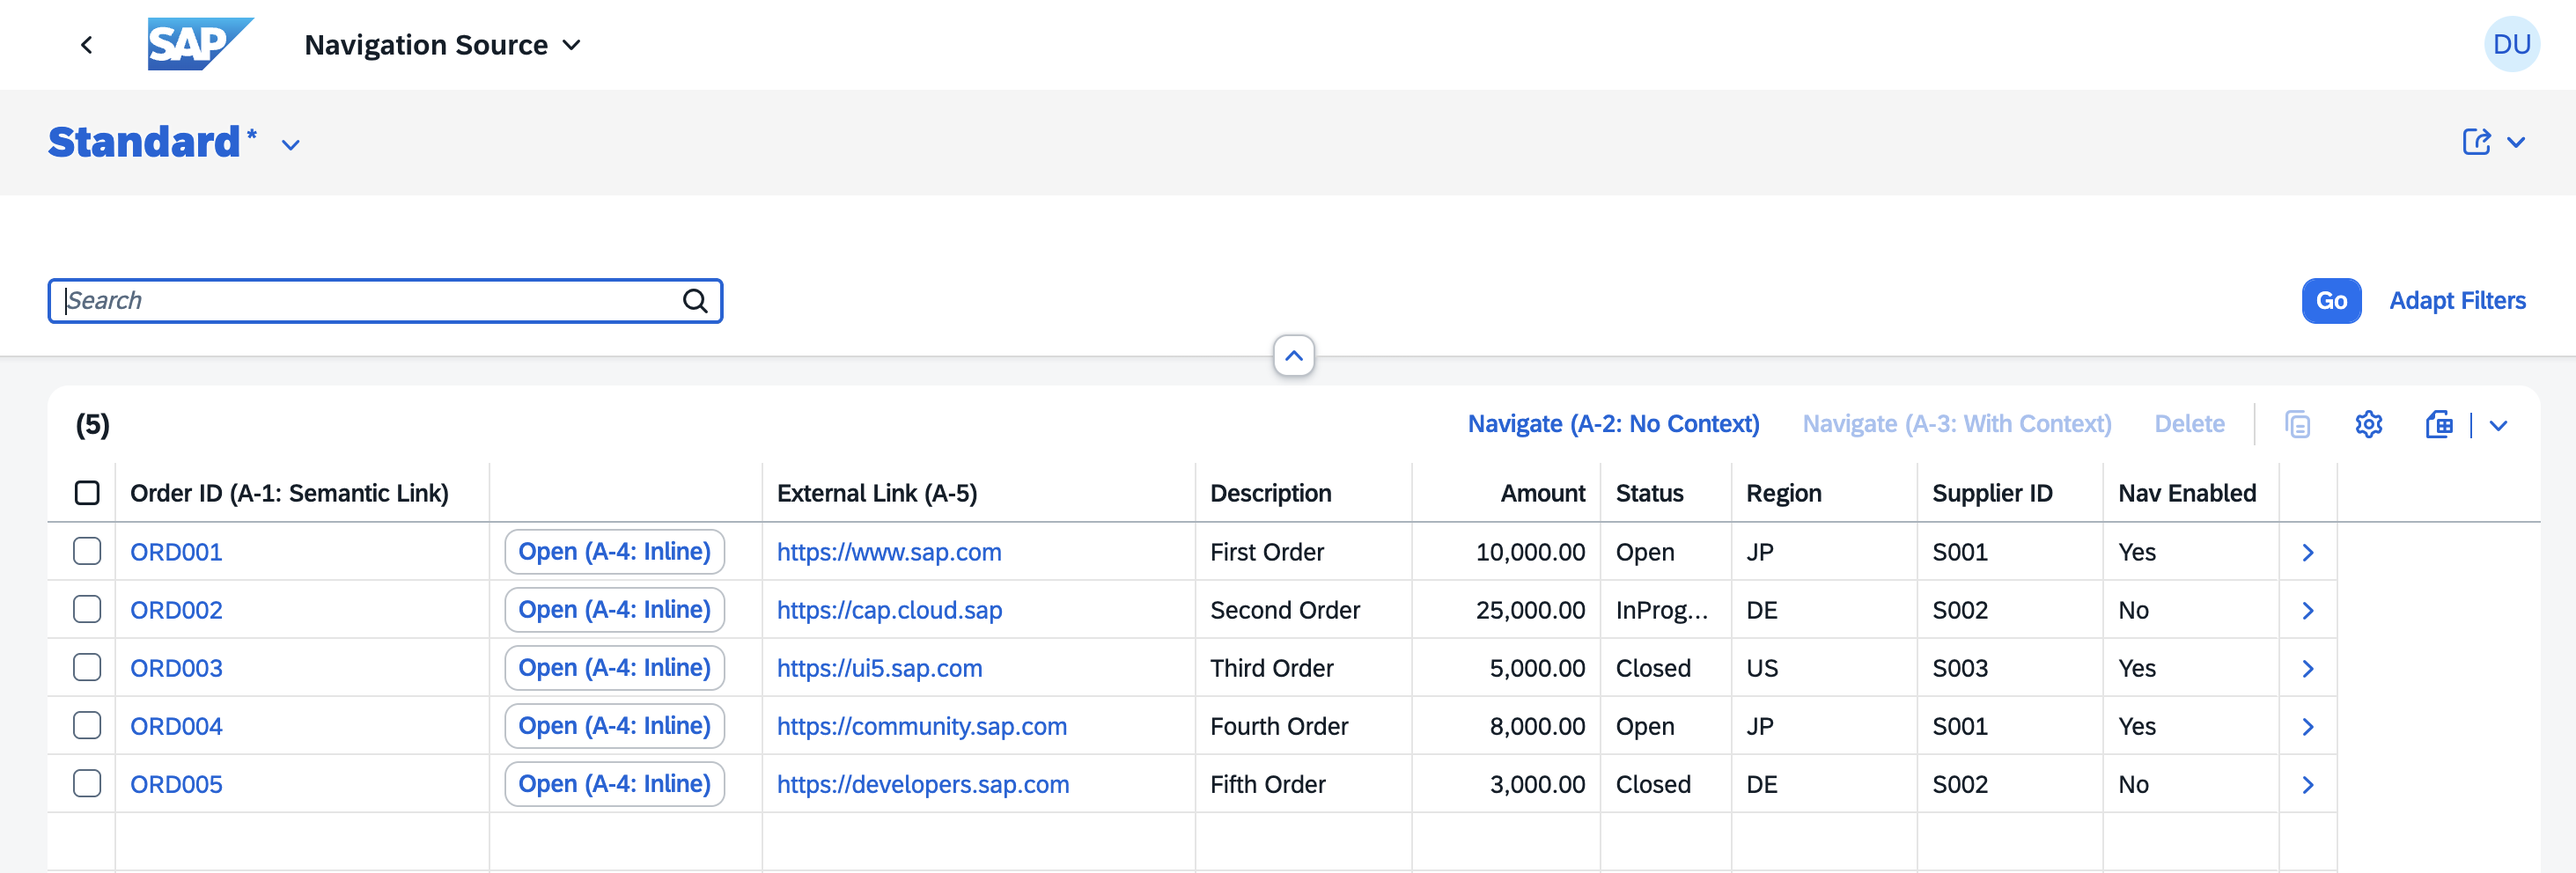
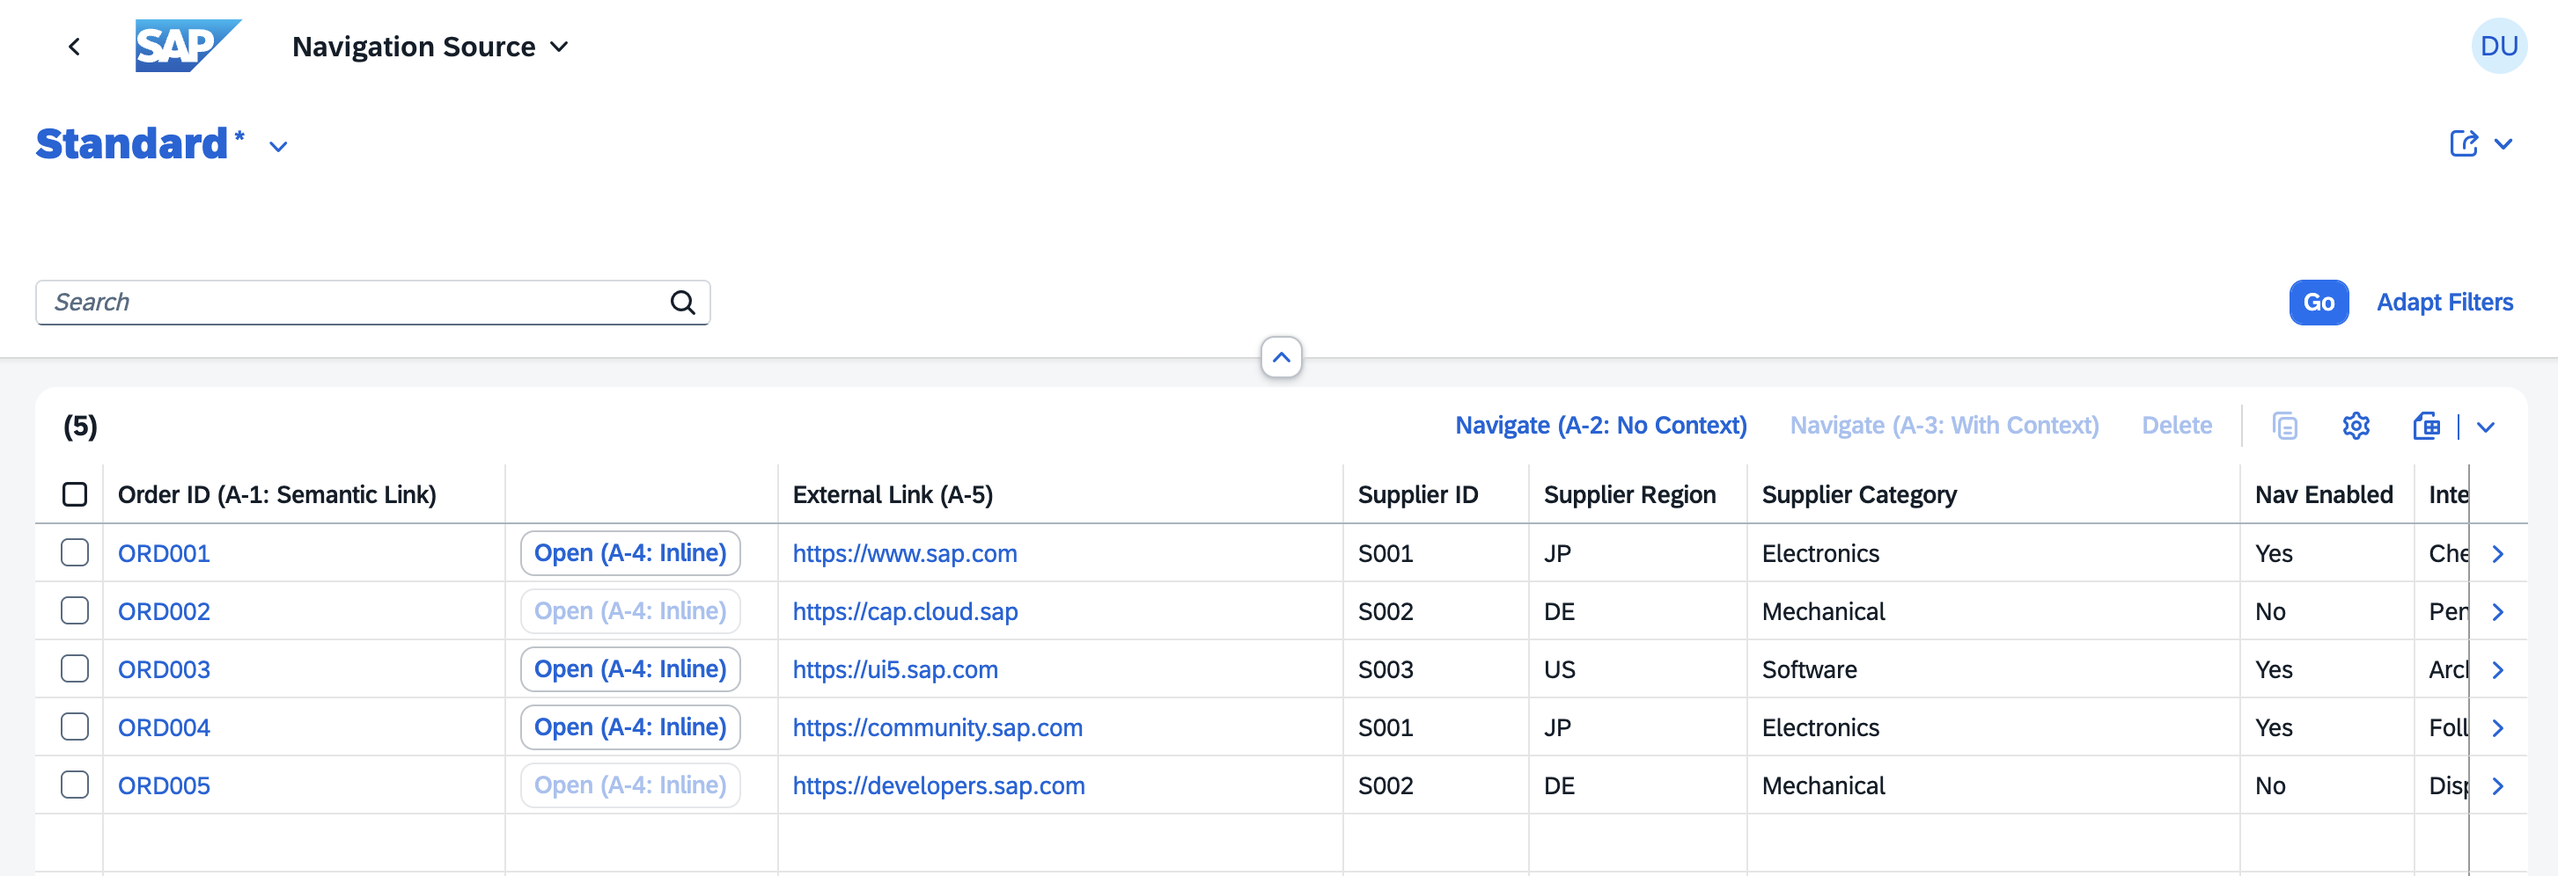
Document dynamic SemanticObject binding: A-1 supports path, IBN buttons do not

diff --git a/readme.md b/readme.md
@@ -35,7 +35,9 @@ All patterns are visible in the **nav-source List Report**.
 
 ### A-1: Semantic Link
 
-The `orderId` column renders as a clickable link. Clicking it opens a quick-actions popover listing all registered intents for the `NavTarget` semantic object. Since both `NavTarget-display` and `NavTarget-manage` are registered as inbounds, the popover shows two navigation options — demonstrating that a single semantic link can resolve to multiple targets.
+The `orderId` column renders as a clickable link. Clicking it opens a quick-actions popover listing all registered intents for the `NavTarget` semantic object. Three inbounds are registered (`display`, `manage`, `analyze`), but `analyze` is suppressed via `SemanticObjectUnavailableActions` — so the popover shows two navigation options. This demonstrates both multi-target resolution and selective action hiding.
+
+![A-1: Semantic Link](docs/images/A-1.png)
 
 **Implementation** — `app/nav-source/annotations.cds`:
 ```cds
@@ -44,7 +46,7 @@ annotate service.Orders with {
 };
 ```
 
-**What to verify:** `orderId` cells appear as blue hyperlinks. Clicking one opens a popover with two options: "Navigation Target" (display) and "Navigation Target (Manage)" (manage).
+**What to verify:** `orderId` cells appear as blue hyperlinks. Clicking one opens a popover with two options: "Navigation Target" (display) and "Navigation Target (Manage)" (manage). The "analyze" action is not shown.
 
 ---
 
@@ -53,6 +55,8 @@ annotate service.Orders with {
 A toolbar button that is always active, even without selecting a row. Navigates to `NavTarget-display` with no entity context.
 
 IBN (Intent-Based Navigation) is a decoupled navigation mechanism in SAP Fiori. Instead of hardcoding a target URL, the source app declares a semantic intent (`SemanticObject` + `Action`). The FLP resolves the intent at runtime and routes to the registered target app.
+
+![A-2: IBN Button (always enabled)](docs/images/A-2.png)
 
 **Implementation** — `app/nav-source/annotations.cds`:
 ```cds
@@ -73,6 +77,8 @@ IBN (Intent-Based Navigation) is a decoupled navigation mechanism in SAP Fiori. 
 
 A toolbar button that is disabled until one or more rows are selected. Passes the selected row's context to the target.
 
+![A-3: IBN Action (requires row selection)](docs/images/A-3.png)
+
 **Implementation** — `app/nav-source/annotations.cds`:
 ```cds
 {
@@ -91,6 +97,8 @@ A toolbar button that is disabled until one or more rows are selected. Passes th
 ### A-4: Inline IBN
 
 A button rendered inside each row (not in the toolbar). Each button carries that row's context.
+
+![A-4: Inline IBN](docs/images/A-4.png)
 
 **Implementation** — `app/nav-source/annotations.cds`:
 ```cds
@@ -114,6 +122,8 @@ A button rendered inside each row (not in the toolbar). Each button carries that
 
 A table column whose cell value is rendered as a hyperlink to an external URL. Opens in a new browser tab.
 
+![A-5: URL Link](docs/images/A-5.png)
+
 **Implementation** — `app/nav-source/annotations.cds`:
 ```cds
 {
@@ -132,6 +142,8 @@ A table column whose cell value is rendered as a hyperlink to an external URL. O
 ### A-6: Replace Row-Click Navigation
 
 By default, clicking a row navigates to the Object Page. This pattern replaces that behavior so the row click (chevron) navigates to an external app instead.
+
+![A-6: Replace Row-Click Navigation](docs/images/A-6.png)
 
 **Implementation** — `app/nav-source/webapp/manifest.json`:
 ```json
@@ -169,6 +181,96 @@ By default, clicking a row navigates to the Object Page. This pattern replaces t
 **What to verify:** Clicking a row (or the chevron) navigates to the Navigation Target app instead of an Object Page.
 
 > **Constraint:** Once `detail.outbound` is set, the Object Page is no longer reachable via row click. The route still exists in the manifest but is bypassed.
+
+---
+
+## Group A — Supplementary Patterns
+
+### Dynamic Semantic Object (A-1 only)
+
+`Common.SemanticObject` accepts a property path reference, allowing the semantic object to be resolved per row at runtime. Rows where the resolved semantic object has no registered FLP inbounds are rendered as plain text — no link is shown.
+
+**Implementation** — `app/nav-source/annotations.cds`:
+```cds
+annotate service.Orders with {
+    orderId @Common.SemanticObject: semanticObject;  // property reference, no quotes
+};
+```
+
+```cds
+// db/schema.cds
+entity Orders {
+    ...
+    semanticObject : String(50);  // e.g. 'NavTarget', 'Customer', ''
+}
+```
+
+**What to verify:** Rows with `semanticObject = 'NavTarget'` show `orderId` as a blue hyperlink. A row with an unregistered value (e.g. `'Customer'`) shows `orderId` as plain text.
+
+> **A-1 only — IBN buttons do not support dynamic binding.**
+> Setting `SemanticObject` or `Action` to a property path in `DataFieldForIntentBasedNavigation` (A-3/A-4) is not supported by Fiori Elements:
+> - Both as path → List Report fails to render entirely
+> - `SemanticObject` as path only → app renders but navigation fails with "Navigation to this application is not supported"
+>
+> The dynamic path feature of `Common.SemanticObject` is specific to the semantic link mechanism, where the FLP resolves intents at click time. IBN buttons declare a static intent at annotation time and cannot resolve it dynamically.
+
+---
+
+### NavigationAvailable (Conditional Button Visibility)
+
+`NavigationAvailable` controls whether an IBN button is shown for a given row. When the bound field is `false`, the button is hidden for that row.
+
+In this project, `ORD002` and `ORD005` have `isNavEnabled = false` — their inline button (A-4) and context-aware toolbar button (A-3) are hidden.
+
+![NavigationAvailable: Conditional Button Visibility](docs/images/Conditional%20Button%20Visibility.png)
+
+**Implementation** — `app/nav-source/annotations.cds`:
+```cds
+// A-4 Inline
+{
+    $Type               : 'UI.DataFieldForIntentBasedNavigation',
+    ...
+    NavigationAvailable : isNavEnabled,
+}
+
+// A-3 Toolbar (requires selection)
+{
+    $Type               : 'UI.DataFieldForIntentBasedNavigation',
+    ...
+    NavigationAvailable : isNavEnabled,
+}
+```
+
+**What to verify:** Rows for ORD002 and ORD005 show no inline navigation button. Selecting those rows keeps the A-3 toolbar button disabled.
+
+> **Note:** `NavigationAvailable` does not apply to A-2 (`RequiresContext: false`) because that button carries no row context.
+
+---
+
+### Hiding Unwanted Actions from a Semantic Object
+
+`SemanticObjectUnavailableActions` hides specific actions from the popover shown when a semantic link is clicked (A-1). The actions are still registered as inbound targets in the FLP — they are just suppressed from appearing as navigation options.
+
+In this project, three inbounds are registered for `NavTarget`: `display`, `manage`, and `analyze`. Without the annotation, all three appear in the A-1 popover. Adding `SemanticObjectUnavailableActions: ['analyze']` keeps `display` and `manage` visible while hiding `analyze`.
+
+**Implementation** — `app/nav-source/annotations.cds`:
+```cds
+annotate service.Orders with {
+    orderId @Common.SemanticObjectUnavailableActions: ['analyze'];
+};
+```
+
+**Inbound registration** — `app/nav-target/webapp/manifest.json`:
+```json
+"NavTarget-analyze": {
+  "semanticObject": "NavTarget",
+  "action": "analyze",
+  "title": "Navigation Target (Analyze)",
+  ...
+}
+```
+
+**What to verify:** Click the `orderId` semantic link. The popover shows two options — "Navigation Target" (display) and "Navigation Target (Manage)" (manage). The "analyze" action does not appear, even though it is registered as an inbound.
 
 ---
 
@@ -267,32 +369,34 @@ Instead, `DataFieldForIntentBasedNavigation.Mapping` **does** support navigation
 
 ---
 
-### B-4: NavigationAvailable (conditional button visibility)
+### B-4: Handling Sensitive and Inapplicable Data
 
-`NavigationAvailable` controls whether an IBN button is shown for a given row. When the bound field is `false`, the button is hidden for that row.
+During outbound navigation, SAP Fiori Elements automatically removes certain properties from the navigation context. These are not passed to the target app regardless of what the navigation trigger is.
 
-In this project, `ORD002` and `ORD005` have `isNavEnabled = false` — their inline button (A-4) and context-aware toolbar button (A-3) are hidden.
+Three annotation types cause a property to be excluded:
+
+| Annotation | Description |
+|---|---|
+| `PersonalData.IsPotentiallySensitive` | Personally identifiable or sensitive data (e.g. credit card numbers) |
+| `UI.ExcludeFromNavigationContext` | Explicitly opt out any field from the navigation context |
+| `Common.FieldControl` → `Inapplicable` | Fields that are not applicable for the selected row at runtime |
+
+Measures in analytical services (`Analytics.v1.CustomAggregate`) are also excluded automatically.
+
+These annotations apply to **all external outbound navigation patterns** — A-1, A-3, A-4, and A-6 alike. A-2 carries no row context to begin with, and A-5 uses a direct URL rather than the IBN context mechanism, so those two are not affected.
+
+In this project, `internalNote` is annotated with `UI.ExcludeFromNavigationContext`. The field is visible in the nav-source table and also appears as a filter bar field in nav-target — but it is never included in the navigation parameters regardless of which trigger is used.
 
 **Implementation** — `app/nav-source/annotations.cds`:
 ```cds
-// A-4 Inline
-{
-    $Type               : 'UI.DataFieldForIntentBasedNavigation',
-    ...
-    NavigationAvailable : isNavEnabled,
-}
-
-// A-3 Toolbar (requires selection)
-{
-    $Type               : 'UI.DataFieldForIntentBasedNavigation',
-    ...
-    NavigationAvailable : isNavEnabled,
-}
+annotate service.Orders with {
+    internalNote @UI.ExcludeFromNavigationContext;
+};
 ```
 
-**What to verify:** Rows for ORD002 and ORD005 show no inline navigation button. Selecting those rows keeps the A-3 toolbar button disabled.
+**What to verify:** Select any row in nav-source (e.g. ORD001, which has `internalNote = "Check payment terms before shipping"`) and navigate using A-1, A-3, or A-4. In nav-target, the `orderId` filter field is pre-filled — but the `internalNote (B-4: ExcludeFromNavigationContext)` filter field is empty for all navigation triggers, confirming the exclusion is pattern-independent.
 
-> **Note:** `NavigationAvailable` does not apply to A-2 (`RequiresContext: false`) because that button carries no row context.
+> **Caution:** Sensitive properties of navigation entities beyond one level are **not** automatically removed from the navigation context.
 
 ---
 
@@ -315,12 +419,12 @@ srv/
   service.cds             — NavigationSourceService, NavigationTargetService
 
 app/nav-source/
-  annotations.cds         — A-1 through A-5 annotations, B-1/B-3/B-4 context annotations
+  annotations.cds         — A-1 through A-5 annotations, B-1/B-3/B-4 context annotations, SemanticObjectUnavailableActions
   webapp/manifest.json    — A-6, crossNavigation.outbounds, FLP inbound
 
 app/nav-target/
   annotations.cds         — SelectionFields for filter bar population
-  webapp/manifest.json    — crossNavigation.inbounds (NavTarget-display, NavTarget-manage)
+  webapp/manifest.json    — crossNavigation.inbounds (NavTarget-display, NavTarget-manage, NavTarget-analyze)
 
 test/
   nav-service.test.js     — OData protocol-level tests
